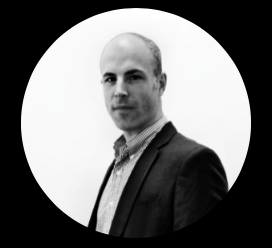
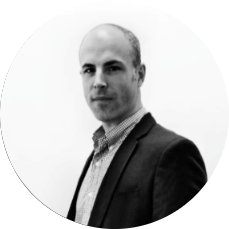
implemented all suggestions so far from Joan, I believe

diff --git a/_includes/about_us.html b/_includes/about_us.html
@@ -1,0 +1,30 @@
+<section id="about_us">
+
+    <div class="container">
+
+        <div class="row">
+            <h2>About Us</h2>
+
+            <div class="col-xs-12">
+                {% for desc in site.about_us_desc %}
+                <ul>
+                    <li class="lead">{{ desc }}</li>
+                </ul>
+                {% endfor %}
+            <div class="col-xs-12">
+        </div>
+
+        <div class="row">
+            {% for member in site.about_us %}
+            <div class="col-xs-4">
+                <center><h4>{{ member.name }}</h4></center>
+                <img src="{{member.image}}" class="img-responsive"
+                  style="width: 50%; margin: auto;" />
+                <div style="width: 75%; margin: auto;">
+                    <center><p class="lead">{{ member.blurb }} </p></center>
+                </div>
+            </div>
+            {% endfor %}
+        </div>
+    </div>
+</section>

diff --git a/_includes/header.html b/_includes/header.html
@@ -17,12 +17,15 @@
             	<!-- li>
                     <a class="page-scroll" href="/blog.html">Blog</a>
                 </li -->            
-            	<li>
-                    <a class="page-scroll" href="/#about">About</a>
-                </li>            
                 <li>
-                    <a class="page-scroll" href="/#services">Services</a>
+                    <a class="page-scroll" href="/#about">Services</a>
                 </li>
+                <li>
+                    <a class="page-scroll" href="/our_story.html">Our Story</a>
+                </li>
+            	<li>
+                    <a class="page-scroll" href="/#about_us">About</a>
+                </li>            
                 <li>
                     <a class="page-scroll" href="/#contact">Contact</a>
                 </li>

diff --git a/_layouts/our_story.html b/_layouts/our_story.html
@@ -1,0 +1,20 @@
+<!DOCTYPE html>
+<html>
+	{% include head.html %}
+
+	<body>
+		{% include header.html %}
+
+        <div class="container">
+            <div class="row">
+                <div class="col-xs-12 lead our-story">
+                    {{ content }}
+                </div>
+            </div>
+        </div>
+
+		{% include contact.html %}
+		{% include footer.html %}
+		{% include js.html %}
+	</body>
+</html>

diff --git a/css/landing-page.css b/css/landing-page.css
@@ -171,3 +171,27 @@ footer {
 p.copyright {
     margin: 15px 0 0;
 }
+
+.story_item {
+    background: lightgray;
+    margin-top: 1em;
+    margin-bottom: 1em;
+    border: 1px gray solid;
+
+    padding: 10px;
+}
+
+.our-story img {
+    display: block;
+    max-width: 100%;
+    height: auto;
+
+    margin: auto;
+    width: 50%;
+}
+
+#about_us {
+    margin-top: 1em;
+    margin-bottom: 2em;
+}
+

diff --git a/_layouts/default.html b/_layouts/default.html
@@ -6,6 +6,7 @@
 		{% include header.html %}
 		{% include about.html %}
 		{% include page_content.html %}
+        {% include about_us.html %}
 		{% include contact.html %}
 		{% include footer.html %}
 		{% include js.html %}

diff --git a/_includes/page_content.html b/_includes/page_content.html
@@ -46,5 +46,6 @@
     </div>
     <!-- /.content-section-b -->
     {% endif %}
+
 {% endfor %}
 </section>

diff --git a/our_story.md b/our_story.md
@@ -1,0 +1,32 @@
+---
+title: Our Story
+permalink: our_story.html
+---
+{::options parse_block_html="true" /}
+
+<div class="story_item">
+iLen Technology Services is a new and exciting Cork based startup. Our vision is to bring open, secure traceability to the food supply chain, focusing on the dairy industry initially.
+
+Our ‘journey’ to date started on a very wet day trip to Digitialweek in Skibbereen in November 2016. An idea was born between two of the original co-founders, John O’Reilly and Joan O’Sullivan. The idea was to use the emerging technology, Blockchain, to bring transparency to the food supply chain. The food supply chain was beginning to be a flagged as good use case for Blockchain. Together with a user friendly app which would allow the consumer to look at the provenance of a product, the idea behind iLen Tech was born.
+
+![iLen River](../img/story/ilen_river.png)
+
+The iLen river runs through Skibbereen so we felt it was a great name for our company given that it was beside that river that the initial conversations started. We also felt it if the river has world champion rowers training on it then it matches our ambitions to be a global leader in the agri-food space.
+
+
+![Rowing Club](../img/story/rowing_club.png)
+</div>
+
+<div class="story_item">
+Since last November, we have worked tirelessly on bringing our idea to life. As true IT professionals, the first of many, many brainstorming sessions started with a coffee.
+
+![First Coffee](../img/story/coffees.jpg)
+</div>
+
+<div class="story_item">
+We are focusing on the agri world initially. We have expanded our management team by securing the highly respected Jim Costello as chairman. We have also established an advisory board with deep sectoral knowledge. While the company is very much in its infancy in terms of time in existence, we feel we have the right SMEs to support us with opening the right doors to the agri-food sector.
+
+![Future Producers](../img/story/future_producers.png)
+</div>
+
+Check out our short video to demonstrate what we offer.
